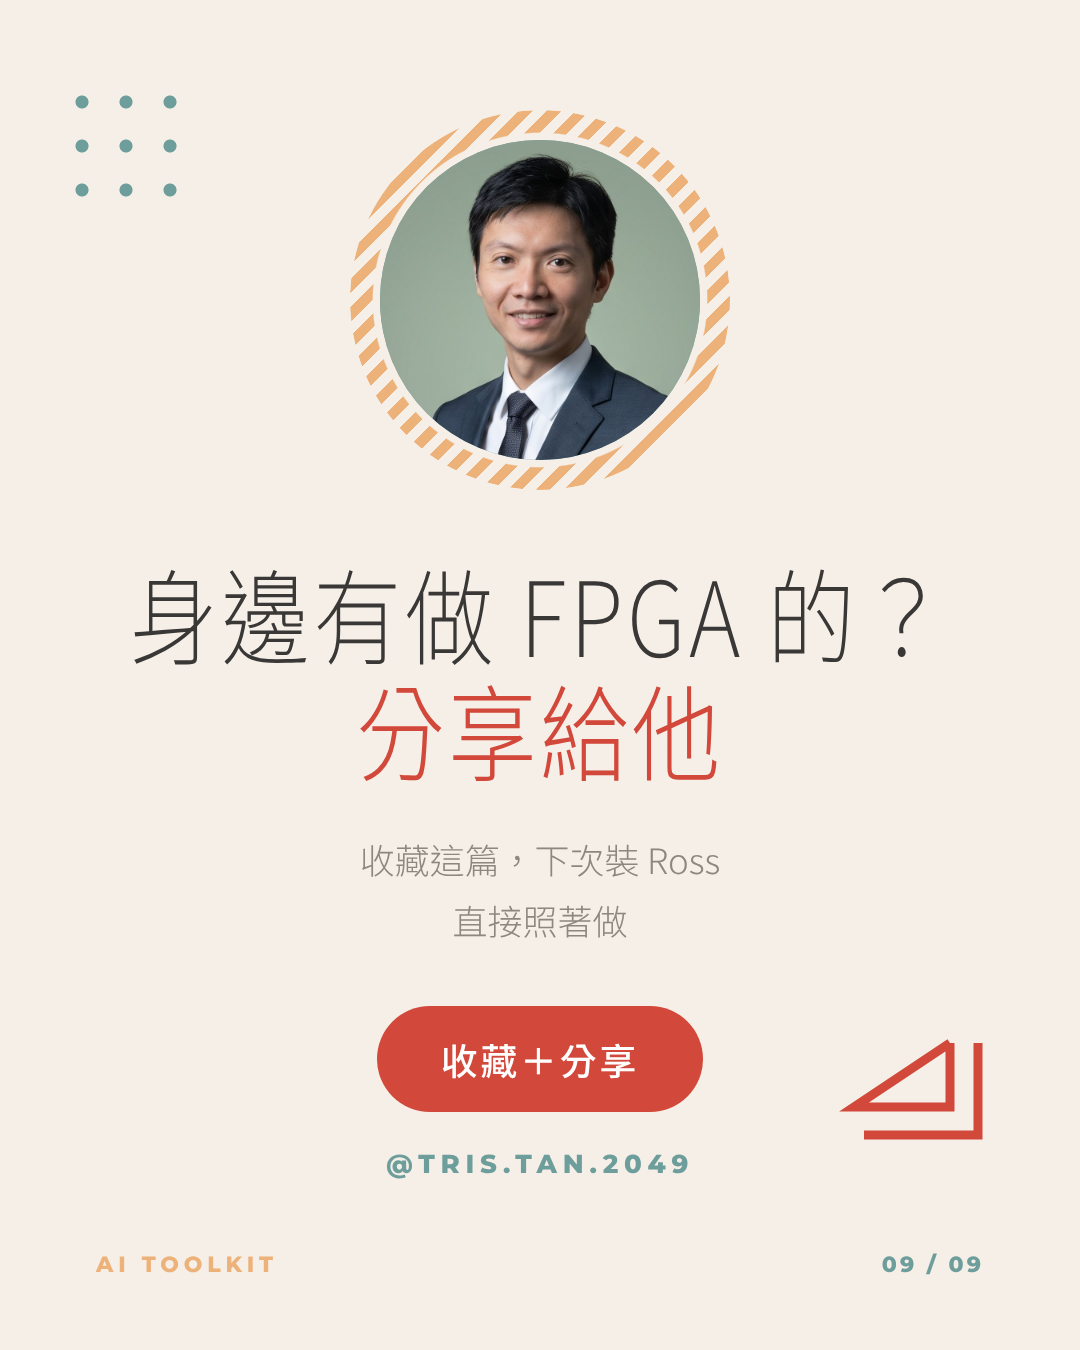
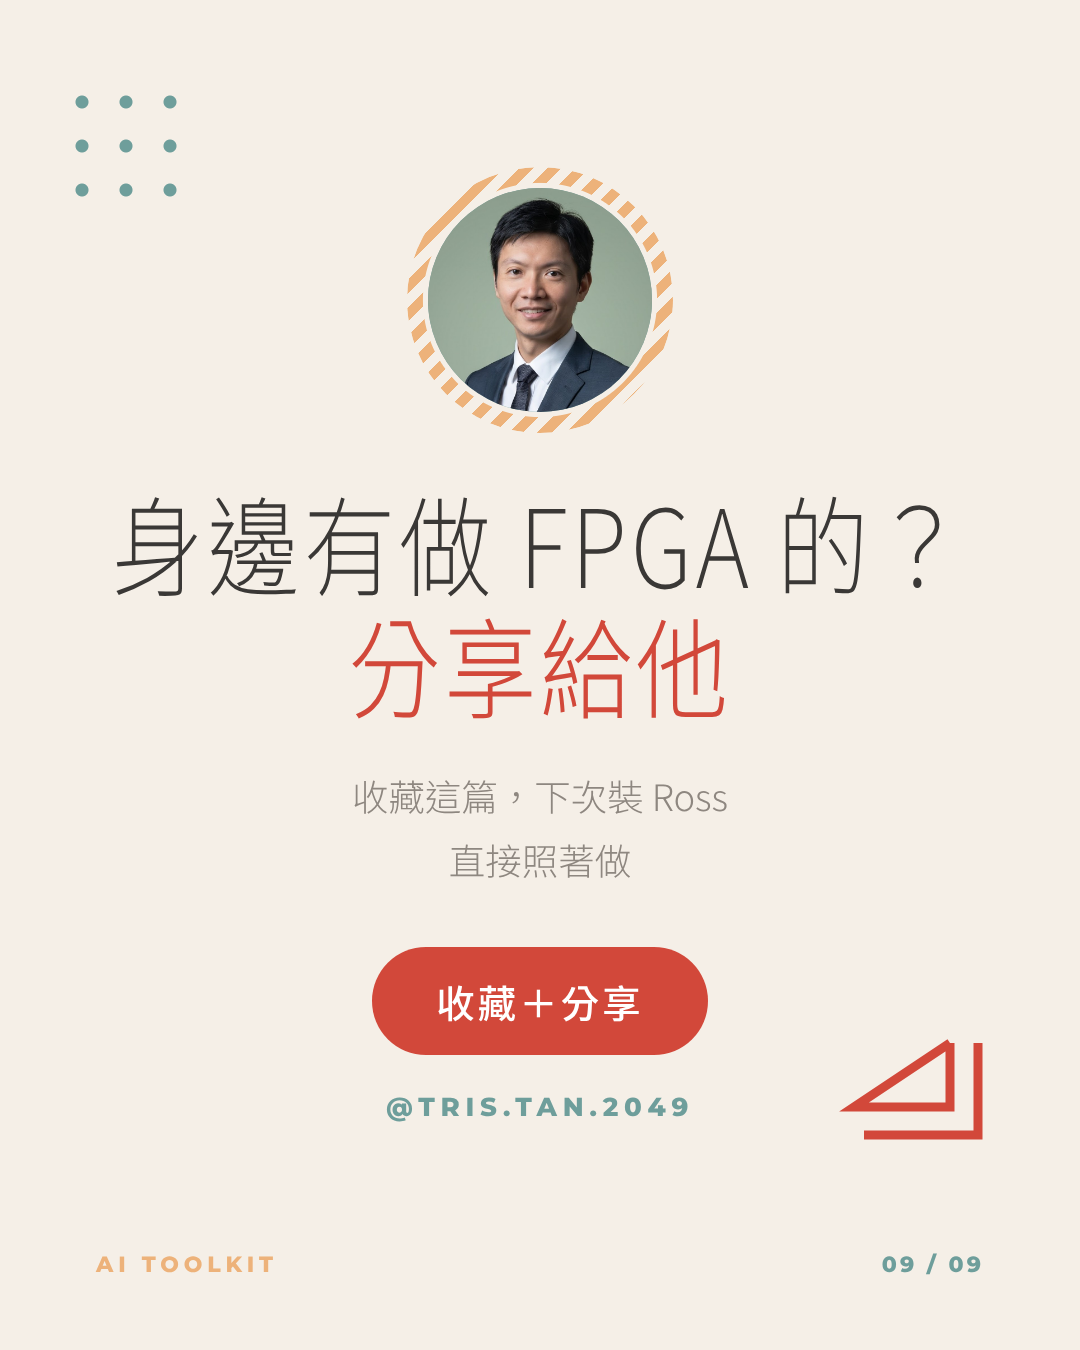
tristan-social：輪播末頁形象照縮小 30%（三套版型），重出三篇末頁與版型預覽
Claude-Session: https://claude.ai/code/session_01SG37vRZCPY3dhTi4ZSUh4b

Changed region(s): [[0.1222, 0.0622, 0.7944, 0.8711], [0.825, 0.3733, 0.8861, 0.4667]]

diff --git a/projects/2026-10-tristan-social/carousel/themes/collage-navy/template.html b/projects/2026-10-tristan-social/carousel/themes/collage-navy/template.html
@@ -148,9 +148,9 @@
 
   /* cta */
   .t-cta .frame { justify-content: center; }
-  .avatar { position: relative; width: 360px; height: 360px; margin-bottom: 60px; }
+  .avatar { position: relative; width: 252px; height: 252px; margin-bottom: 44px; } /* 形象照刻意放小（使用者要求，2026-10-29 縮小 30%） */
   .avatar .paper { position: absolute; inset: 0; }
-  .avatar .in { position: absolute; inset: 22px; border-radius: 50%; overflow: hidden; background: var(--blue); display: grid; place-items: center; font-family: var(--f-latin); font-size: 120px; color: var(--navy); }
+  .avatar .in { position: absolute; inset: 15px; border-radius: 50%; overflow: hidden; background: var(--blue); display: grid; place-items: center; font-family: var(--f-latin); font-size: 120px; color: var(--navy); }
   .avatar img { width: 100%; height: 100%; object-fit: cover; }
   .t-cta .title { font-size: calc(var(--k) * 90px); }
   .t-cta .body { margin-top: 36px; }

diff --git a/projects/2026-10-tristan-social/carousel/themes/beige-teal/template.html b/projects/2026-10-tristan-social/carousel/themes/beige-teal/template.html
@@ -118,10 +118,10 @@
 
   /* cta */
   .t-cta .frame { align-items: center; justify-content: center; text-align: center; }
-  .avatar { position: relative; width: 380px; height: 380px; margin-bottom: 64px; flex: none; }
+  .avatar { position: relative; width: 266px; height: 266px; margin-bottom: 48px; flex: none; } /* 形象照刻意放小（使用者要求，2026-10-29 縮小 30%） */
   .avatar .ring { position: absolute; inset: 0; }
   .avatar .in {
-    position: absolute; inset: 30px; border-radius: 50%; background: var(--teal);
+    position: absolute; inset: 21px; border-radius: 50%; background: var(--teal);
     display: grid; place-items: center; overflow: hidden;
     font-family: var(--f-latin); font-weight: 700; font-size: 96px; color: var(--bg);
   }

diff --git a/projects/2026-10-tristan-social/carousel/themes/editorial-beige/template.html b/projects/2026-10-tristan-social/carousel/themes/editorial-beige/template.html
@@ -109,7 +109,7 @@
   /* cta */
   .t-cta .frame { justify-content: center; }
   .stars { color: var(--mustard); font-size: 46px; letter-spacing: .2em; margin-bottom: 24px; }
-  .t-cta .face { width: 250px; height: 250px; border-width: 12px; margin-bottom: 44px; }
+  .t-cta .face { width: 175px; height: 175px; border-width: 9px; margin-bottom: 36px; } /* 形象照刻意放小（使用者要求，2026-10-29 縮小 30%） */
   .t-cta .title { font-size: calc(var(--k) * 86px); }
   .t-cta .body { margin-top: 30px; }
   .btn { margin-top: 44px; background: var(--ink); color: var(--pale); font-size: calc(var(--k) * 36px); font-weight: 700; padding: 22px 64px; border-radius: 999px; letter-spacing: .06em; }

diff --git a/memory/tristan-carousel-style.md b/memory/tristan-carousel-style.md
@@ -7,7 +7,7 @@ type: feedback
 2026-10-29 確認 Tristan IG 輪播（`projects/2026-10-tristan-social/carousel/`）的規格：
 
 - 封面放「這篇文最有代表性的照片」，每篇不同；照片直接填進左上角的綠色大圓，不另開照片框；用原本的彩色，不轉黑白（2026-10-29 使用者指定）
-- 最後一頁（CTA）放 Tristan 的形象照：彩色、灰綠背景那張（`carousel/assets/tristan.jpg`），和主色灰綠最搭
+- 最後一頁（CTA）放 Tristan 的形象照：彩色、灰綠背景那張（`carousel/assets/tristan.jpg`），和主色灰綠最搭；照片放小（見 `tristan-photo-small`）
 - 標題字型用思源黑體 Thin（weight 200）縱向拉長 1.18 倍；不用找「文青木瓜」原字
 - IG 帳號：@tris.tan.2049
 - 版型（整套風格）放 `carousel/themes/<id>/`，使用者會給參考圖讓我做新版型；每套做完跑 `node preview.mjs <id>` 輸出預覽到 `outputs/templates/<id>.png`，使用者在 jteam-viewer 看 id 後指定發文用哪套
